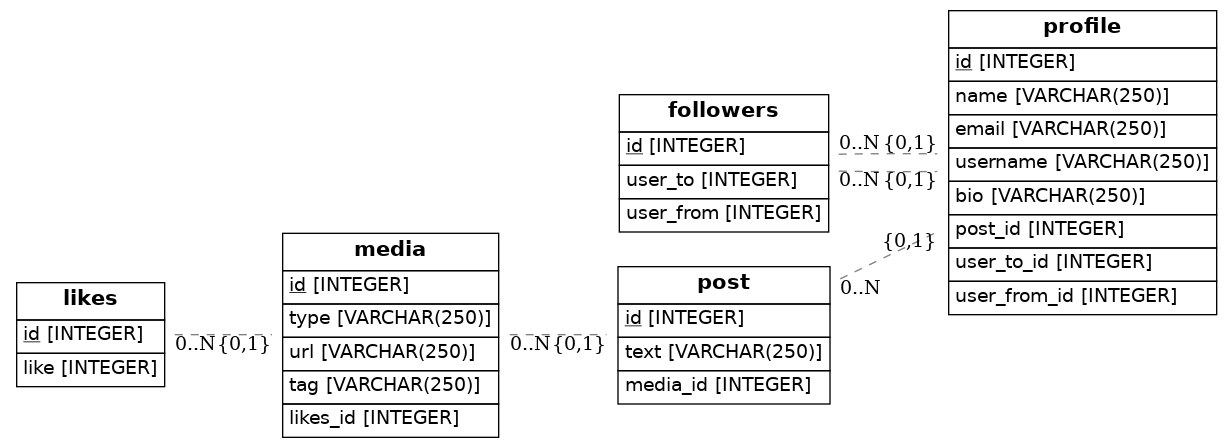
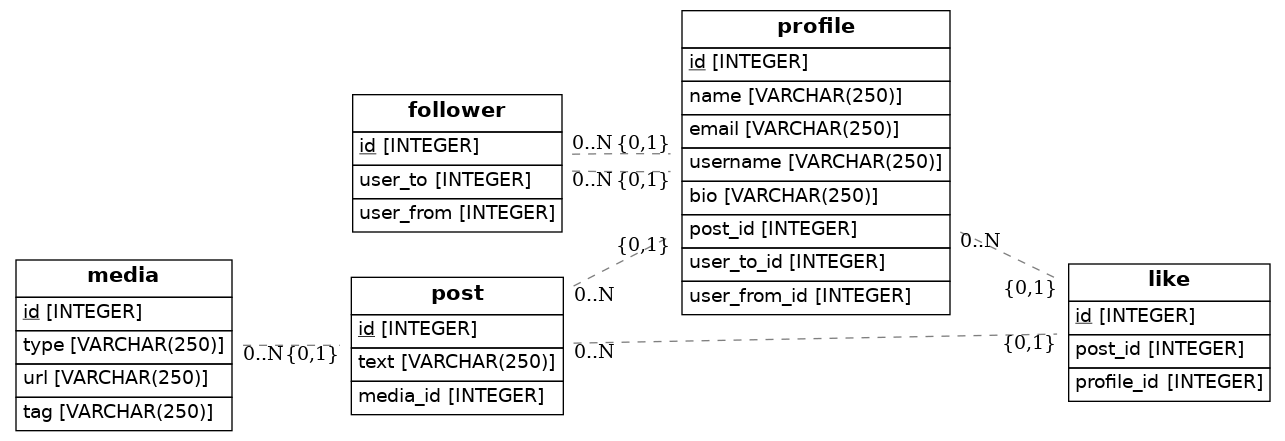
fixed

Changed region(s): [[0.0, 0.0, 1.0, 1.0], [0.2776, 0.2063, 0.4318, 0.2653], [0.1542, 0.5896, 0.1851, 0.619]]

diff --git a/src/models.py b/src/models.py
@@ -9,8 +9,8 @@ from eralchemy import render_er
 Base = declarative_base()
 
 
-class Followers(Base):
-    __tablename__ = 'followers'
+class Follower(Base):
+    __tablename__ = 'follower'
     # Here we define columns for the table address.
     # Notice that each column is also a normal Python instance attribute.
     id = Column(Integer, primary_key=True)
@@ -18,12 +18,14 @@ class Followers(Base):
     user_from = Column(Integer)
 
 
-class Likes(Base):
-    __tablename__ = 'likes'
+class Like(Base):
+    __tablename__ = 'like'
     # Here we define columns for the table address.
     # Notice that each column is also a normal Python instance attribute.
     id = Column(Integer, primary_key=True)
-    like = Column(Integer)
+    post_id = Column(Integer, ForeignKey('post.id'))
+    profile_id = Column(Integer, ForeignKey('profile.id'))
+
        
 
 class Media(Base):
@@ -34,8 +36,6 @@ class Media(Base):
     type = Column(String(250), nullable=False)
     url = Column(String(250))
     tag = Column(String(250))
-    likes_id = Column(Integer, ForeignKey('likes.id'))
-    likes = relationship(Likes)
 
 class Post(Base):
     __tablename__ = 'post'
@@ -44,7 +44,8 @@ class Post(Base):
     id = Column(Integer, primary_key=True)
     text = Column(String(250), nullable=False)
     media_id = Column(Integer, ForeignKey('media.id'))
-    media = relationship(Media) 
+    media = relationship(Media)
+    like = relationship(Like) 
       
 
 class Profile(Base):
@@ -58,10 +59,11 @@ class Profile(Base):
     bio = Column(String(250))
     post_id = Column(Integer, ForeignKey('post.id'))
     post = relationship(Post)
-    user_to_id = Column(Integer, ForeignKey('followers.id'))
-    followers = relationship(Followers)
-    user_from_id = Column(Integer, ForeignKey('followers.id'))
-    followers= relationship(Followers)
+    user_to_id = Column(Integer, ForeignKey('follower.id'))
+    follower = relationship(Follower)
+    user_from_id = Column(Integer, ForeignKey('follower.id'))
+    follower= relationship(Follower)
+    like = relationship(Like)
 
 
     def to_dict(self):
